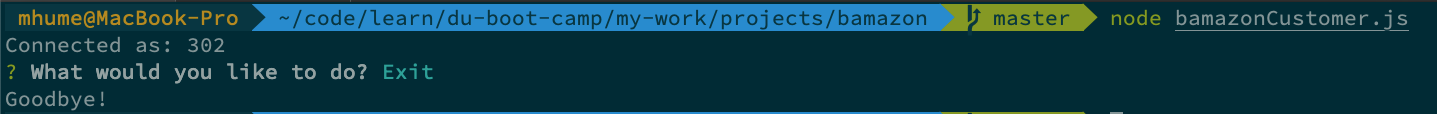
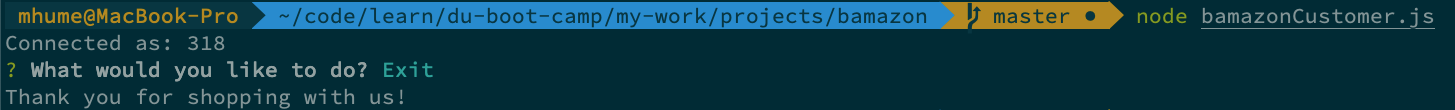
update

diff --git a/bamazonCustomer.js b/bamazonCustomer.js
@@ -41,7 +41,7 @@ function promptPurchaseOrExit() {
       if (answers.options === 'Purchase a product') {
         viewAllProducts();
       } else {
-        console.log('Goodbye!');
+        console.log('Thank you for shopping with us!');
         process.exit();
       }
     });
